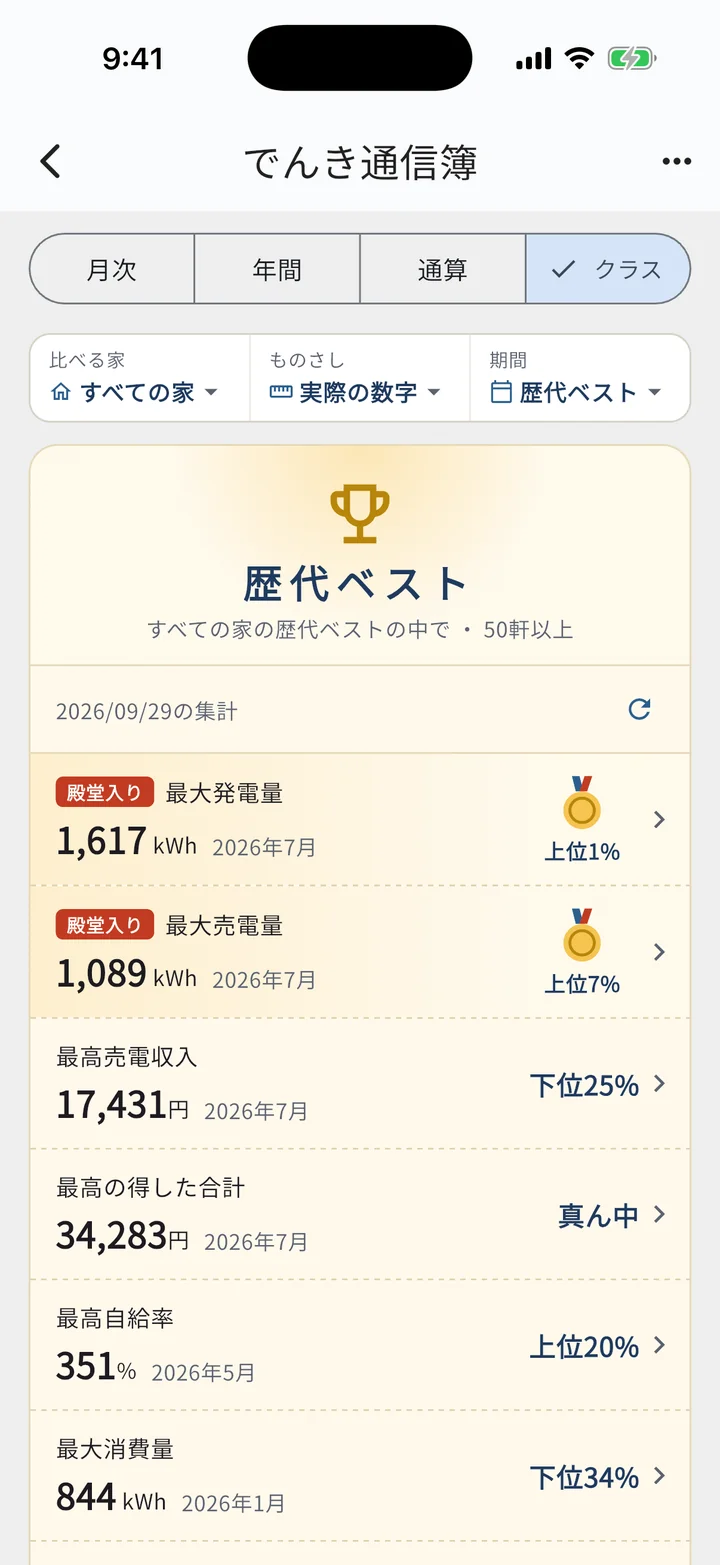
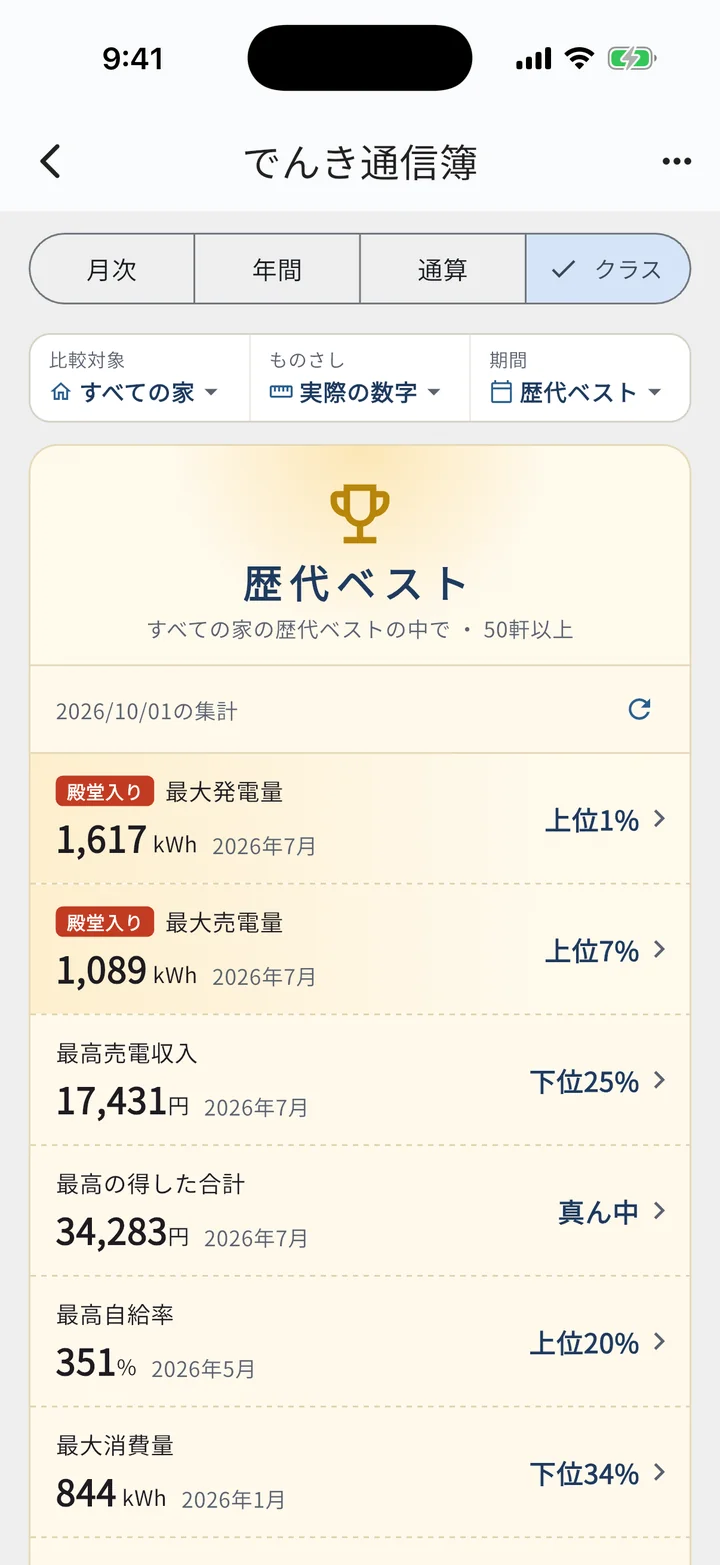
docs: クラスの節を組み直し、画像 4 枚を撮り直す

diff --git a/docs/manual.html b/docs/manual.html
@@ -826,9 +826,9 @@
     <li class="sub2"><a href="#electricity-best">通算（マイベスト）</a></li>
     <li class="sub"><a href="#electricity-share">シェア画像</a></li>
     <li class="sub"><a href="#electricity-class">クラス</a></li>
-    <li class="sub2"><a href="#electricity-class-submit">提出のしかた</a></li>
-    <li class="sub2"><a href="#electricity-class-screen">クラスの通信簿</a></li>
-    <li class="sub2"><a href="#electricity-class-settings">提出の設定</a></li>
+    <li class="sub2"><a href="#electricity-class-submit">はじめ方</a></li>
+    <li class="sub2"><a href="#electricity-class-screen">クラスの通信簿の見方</a></li>
+    <li class="sub2"><a href="#electricity-class-settings">提出の設定とやめ方</a></li>
     <li class="sub2"><a href="#electricity-class-data">送る数字と保存期間</a></li>
     <li class="sub"><a href="#electricity-actions">操作リファレンス</a></li>
   </ul>
@@ -3239,10 +3239,10 @@
   <li><strong>最終データ日付</strong>：「最終データ: YYYY/MM/DD まで」</li>
   <li><strong>月セレクタ</strong></li>
   <li><strong>得した合計カード</strong>（共通仕様）</li>
-  <li><strong>クラスのカード</strong>：クラスへの提出の案内、または提出済みの表示（<a href="#electricity-class-submit">提出のしかた</a>）。料金プランが未設定のときは出ません</li>
+  <li><strong>クラスのカード</strong>：クラスへの提出の案内、または提出済みの表示（<a href="#electricity-class-submit">はじめ方</a>）。料金プランが未設定のときは出ません</li>
   <li><strong>蓄電池カード</strong></li>
   <li><strong>日別 得した合計</strong>：カレンダーヒートマップ（正の収支日のみ色付け）＋日別リスト。日タップで時間別内訳がボトムシートで開く</li>
-  <li><strong>この月のハイライト</strong>：🏆 最も得した日 ／ 💰 最高売電収入日 ／ ⚡ 最大発電日 ／ 📊 最高自給率日 ／ 🔥 黒字日数 ／ 🌞 買電ゼロ日数</li>
+  <li><strong>この月のハイライト</strong>：🏆 最も得した日 ／ 💰 最高売電収入日 ／ ⚡ 最大発電日 ／ 📊 最高自給率日 ／ 🔥 黒字日数 ／ 🌞 買電ゼロ日数（数え方は <a href="#electricity-badges">達成</a> を参照）</li>
 </ol>
 
 <h5>CSVエクスポート・シェア</h5>
@@ -3348,7 +3348,7 @@
 <h5 id="electricity-badges">達成（累計カウント）</h5>
 <p>特定の条件を満たした日・月の累計数を記録します。「N 日中 X 日」のように割合も添えて表示。</p>
 <ul>
-  <li><strong>買電ゼロ日数</strong>：電力会社から買わずに済んだ日の累計</li>
+  <li><strong>買電ゼロ日数</strong>：電力会社からほとんど買わずに済んだ日の累計（1 時間あたり 0.01 kWh 以下のわずかな買電は数えません）</li>
   <li><strong>黒字日数</strong>：1 日の収支がプラスだった日の累計</li>
   <li><strong>黒字月数</strong>：1 ヶ月の収支がプラスだった月の累計</li>
 </ul>
@@ -3394,21 +3394,16 @@
 <p>CSV 取り込みでその月のデータが月末まで揃うと、取り込み完了の画面にも「◯年◯月をシェア」ボタンが表示され、その場でシェア画像を作れます。なお、料金プランが未設定の月や、プランの適用前の期間を含む月は、正しい金額にならないためシェア画像を作れません（設定を促すメッセージが表示されます）。</p>
 
 <h3 id="electricity-class">クラス（提出した家の中での位置）</h3>
-<p>月の数字をクラスに<strong>提出</strong>すると、発電量や電気代などが、提出した家の中で上位何%かが分かる<strong>「クラスの通信簿」</strong>がもらえます。でんき通信簿の 4 つ目のセグメント「クラス」で見られます。</p>
 <ul>
-  <li>画面に出るのは、自分の数字と、提出した家の中での自分の位置、提出した家の数字をまとめた統計（中央値など）です。ほかの家の数字や名前が並ぶことはありません</li>
-  <li>比べる相手は「提出した家」です。提出した家が 10 軒以上になると、上位・下位が表示されます</li>
-  <li>提出するかどうかは自分で選べます。提出しなくても、でんき通信簿のほかの機能はこれまでどおり使えます</li>
+  <li>月の数字をクラスに<strong>提出</strong>すると、発電量や電気代などが、提出した家の中で上位何%かが<strong>「クラスの通信簿」</strong>で分かります。でんき通信簿の 4 つ目のセグメント「クラス」で見られます</li>
+  <li>提出した家が 10 軒以上になると、位置（上位・下位）が表示されます。画面に出るのは、自分の数字と位置、提出した家の数字をまとめた統計（中央値など）です。ほかの家の数字や名前は表示されません</li>
+  <li>提出するかどうかは自分で選べます。送る数字は、提出する前に画面で確かめられます</li>
 </ul>
 
 <div class="shot-grid">
   <figure class="shot-phone">
-    <img src="images/class_report_month.webp" width="720" height="1565" alt="クラスの画面（比べる家・ものさし・期間の切り替え、7月のあなたの一番 = 発電量 上位1%、クラスの通信簿の行）" loading="lazy" decoding="async">
+    <img src="images/class_report_month.webp" width="720" height="1565" alt="クラスの画面（比較対象・ものさし・期間の切り替え、7月のあなたの一番 = 発電量 上位1%、クラスの通信簿の行とメダル・はんこ）" loading="lazy" decoding="async">
     <figcaption>クラスの通信簿：科目ごとに提出した家の中での位置</figcaption>
-  </figure>
-  <figure class="shot-phone">
-    <img src="images/class_detail.webp" width="720" height="1565" alt="科目の詳しい画面（自給率 上位20%・中央値・分布・月別推移）" loading="lazy" decoding="async">
-    <figcaption>行をタップすると、中央値や分布も見られます</figcaption>
   </figure>
 </div>
 
@@ -3416,39 +3411,38 @@
   <p>提出すると、月の数字と家の条件がサーバーに送られます。送る数字・送らないもの・保存期間は <a href="#electricity-class-data">送る数字と保存期間</a> をご覧ください。デモモード中と開発者モード中は提出できません。</p>
 </div>
 
-<h4 id="electricity-class-submit">提出のしかた</h4>
-<p>提出できるのは、その月のデータが月末までそろった月です（途中の月は提出できません）。過去の月も提出できます。入口は次の 3 つで、どれも同じ「提出する内容」の画面が開きます。</p>
-<ul>
-  <li><strong>CSV 取り込みの完了ダイアログ</strong>：その取り込みで新しくそろった月があると、「OK」の左に<strong>「◯年◯月分をクラスに提出する」</strong>が出ます（自動で提出する設定のときは、ボタンの代わりに提出の結果が出ます。送れなかったときだけボタンが出ます）</li>
-  <li><strong>月次レポートのカード</strong>：得した合計カードのすぐ下に出ます。まだ提出したことがないときは「提出すると、クラスの通信簿がもらえます」（× で閉じると、この端末では出なくなります）。提出している人には「◯年◯月分をクラスに提出する」、提出済みの月は「◯年◯月分を提出しました」と「クラスの通信簿を見る ›」（押すとクラスの画面のその月へ）。料金プランが未設定のあいだと、今後の提出をやめたあとは、このカードは出ません</li>
-  <li><strong>クラスのセグメント</strong>：まだ提出していないときは「発電量や電気代などが、提出した家の中で上位何%かが分かります」の説明と「提出する」ボタン（いちばん新しい月の提出の画面が開きます）</li>
-</ul>
+<h4 id="electricity-class-submit">はじめ方</h4>
+<ol class="steps">
+  <li><strong>その月のデータを月末までそろえる</strong><p>CSV を取り込んで、その月のデータが月末までそろうと提出できます（途中の月は提出できません）。過去の月も提出できます。</p></li>
+  <li><strong>「◯年◯月分をクラスに提出する」を押す</strong><p>取り込み完了ダイアログ・月次レポートのカード（得した合計の下）・クラスの画面の「提出する」のどれからでも、同じ「提出する内容」の画面が開きます。</p></li>
+  <li><strong>内容を確かめて「提出する」を押す</strong><p>提出するのは、この画面に表示している数字だけです。</p></li>
+  <li><strong>翌日からクラスの通信簿に載る</strong><p>集計は 1 日 1 回、朝 4 時ごろです。</p></li>
+</ol>
 
 <div class="shot-grid">
   <figure class="shot-phone">
     <img src="images/electricity_csv_done.webp" width="720" height="1565" alt="CSV取り込み完了ダイアログ（「2026年7月分をクラスに提出する」のボタン）" loading="lazy" decoding="async">
-    <figcaption>入口：取り込み完了ダイアログの「◯年◯月分をクラスに提出する」</figcaption>
+    <figcaption>取り込み完了ダイアログの「◯年◯月分をクラスに提出する」</figcaption>
   </figure>
   <figure class="shot-phone">
     <img src="images/electricity_monthly.webp" width="720" height="1565" alt="月次レポートの得した合計の下の「提出すると、クラスの通信簿がもらえます」のカード" loading="lazy" decoding="async">
-    <figcaption>入口：月次レポートのカード</figcaption>
+    <figcaption>月次レポートのカード</figcaption>
   </figure>
 </div>
 
 <h5>「提出する内容」の画面（上から順）</h5>
 <ol>
-  <li><strong>月の数字</strong>：発電量・売電量・売電収入・得した合計・自給率・消費量・買電量・電気代の 8 つ。料金プランが設定されていない月は、金額が「—（料金プラン未設定）」になります。自給率が 1000% を超える月（入居前など、使う電力がとても少ない月）は、自給率だけが「—」になります（ほかの数字は提出できます）</li>
+  <li><strong>月の数字</strong>：発電量・売電量・売電収入・得した合計・自給率・消費量・買電量・電気代の 8 つ。料金プランが設定されていない月は、金額が「—（料金プラン未設定）」になります。自給率が 1000% を超える月（入居前など、使う電力がとても少ない月）は、自給率だけが「—」になります</li>
   <li><strong>家の情報</strong>（入力は任意です）：売電単価・断熱地域・延床・太陽光の容量。行の右のスイッチで、それぞれ提出するかどうかを選べます（はじめはすべて提出する）
     <ul>
-      <li><a href="#mypage-edit">マイページ</a>に入っていない項目は、その場で入力できます（断熱地域は 1〜8 から選ぶ、延床は坪、太陽光の容量は kW）。分からなければ空のままで提出できます</li>
+      <li>マイページに入っていない項目は、その場で入力できます（断熱地域は 1〜8 から選ぶ、延床は坪、太陽光の容量は kW）。分からなければ空のままで提出できます。入力した値はマイページに保存されます（<a href="#electricity-class-house">家の情報とマイページ</a>）</li>
       <li>延床と太陽光の容量は、取り込んだ見積りから読み取れたときに「見積りの ◯坪 を使う」「見積りの ◯kW を使う」ボタンが出ます。押したときだけ入ります</li>
-      <li>ここで入力した値はマイページに保存されます。マイページで修正・削除すると、次の提出から変更後の値になります</li>
-      <li>売電単価は、マイページではなく<a href="#electricity-plan">売電プラン</a>からその月の単価を取ります（1 円単位）。売電プランがないときは「売電プランを設定する」から設定できます（設定しなくても提出できます）。月の途中で売電プランが変わった月は「—（月の途中で売電プランが変わりました）」になります</li>
+      <li>売電単価は、<a href="#electricity-plan">売電プラン</a>からその月の単価を取ります（1 円単位）。売電プランがないときは「売電プランを設定する」から設定できます。設定して戻ると、金額と歴代ベストが設定後の内容で表示されます。月の途中で売電プランが変わった月は「—（月の途中で売電プランが変わりました）」になります</li>
     </ul>
   </li>
   <li><strong>これまでの月もまとめて提出する</strong>（はじめは ON）：データがそろっているほかの未提出の月も、まとめて提出します。「ほかの ◯ヶ月の数字を見る」で中身を確かめられます</li>
   <li><strong>歴代ベストもいっしょに提出します</strong>：端末にある全期間の記録から、8 つの科目それぞれのいちばん大きかった月の値と年月（その月の売電単価）を提出します。通算タブのマンスリーベストとは数え方が違うため、数字が一致しないことがあります</li>
-  <li><strong>「提出する」</strong>：押すと送信します。提出するのは、この画面に表示している数字だけです</li>
+  <li><strong>「提出する」</strong>：押すと送信します</li>
 </ol>
 
 <div class="shot-grid">
@@ -3464,8 +3458,7 @@
 
 <h5>提出したあと</h5>
 <ul>
-  <li>「提出しました」と「今回の数字は、明日からクラスの通信簿に載ります」が出ます。集計は 1 日 1 回、朝 4 時ごろです</li>
-  <li><strong>「次からは、データを取り込んだときに自動で提出する」</strong>（はじめは OFF）：ON にすると、次からは CSV を取り込んで新しくそろった月を自動で提出します（歴代ベストもいっしょに提出します）。結果は取り込み完了ダイアログの中に「◯年◯月分を提出しました」のように出ます（通信できないときは「まだ提出できていません」、送れなかったときは「提出できませんでした」と「◯年◯月分をクラスに提出する」）。あとからクラスの画面や<a href="#electricity-class-settings">提出の設定</a>で切り替えられます</li>
+  <li>「提出しました」の画面が出ます。この画面の<strong>「次からは、データを取り込んだときに自動で提出する」</strong>（はじめは OFF）を ON にすると、次からは自動で提出します（<a href="#electricity-class-settings">自動の提出</a>）</li>
   <li>通信できないときは「まだ提出できていません」と出ます。通信できるようになってから、でんき通信簿のクラスを開くと提出されます</li>
 </ul>
 
@@ -3480,81 +3473,80 @@
   </figure>
 </div>
 
-<h4 id="electricity-class-screen">クラスの画面（クラスの通信簿）</h4>
-<p>セグメントの「クラス」を選ぶと開きます。上から順に、切り替え・ハイライト・クラスの通信簿が並びます。</p>
+<h4 id="electricity-class-screen">クラスの通信簿の見方</h4>
+<p>セグメントの「クラス」を選ぶと開きます。どの科目も<strong>数字の大きい順</strong>に数えます（電気代・消費量・買電量も、大きいほど「上位」です）。</p>
 
 <h5>3 つの切り替え</h5>
 <table>
   <thead><tr><th>切り替え</th><th>選べるもの</th></tr></thead>
   <tbody>
-    <tr><td>比べる家</td><td>すべての家 ／ 同じ断熱地域 ／ 同じ売電単価</td></tr>
+    <tr><td>比較対象</td><td>すべての家 ／ 同じ断熱地域 ／ 同じ売電単価</td></tr>
     <tr><td>ものさし</td><td>実際の数字 ／ 坪・kW あたり（発電量・売電量・売電収入・得した合計は太陽光の容量 1kW あたり、消費量・買電量・電気代は延床 1 坪あたり。自給率はそのまま）</td></tr>
     <tr><td>期間</td><td>月 ／ 年 ／ 歴代ベスト</td></tr>
   </tbody>
 </table>
-<p>選んだ組み合わせは次に開いたときも同じです。「同じ断熱地域」「同じ売電単価」で比べるには、その条件を提出している必要があります。坪・kW あたりには延床と太陽光の容量が必要です。</p>
+<p>選んだ組み合わせは次に開いたときも同じです。「同じ断熱地域」「同じ売電単価」には、その条件の提出が必要です。坪・kW あたりには延床と太陽光の容量が必要です。</p>
 
-<h5>ハイライトとクラスの通信簿</h5>
+<h5>通信簿の行と印</h5>
 <ul>
-  <li><strong>ハイライト</strong>：「◯月のあなたの一番」として、いちばん上位だった科目を大きく表示します（上位の側の科目があるときだけ）</li>
-  <li><strong>クラスの通信簿</strong>：8 つの科目の自分の数字と、位置（<strong>「上位◯%」「真ん中」「下位◯%」</strong>）が並びます。どの科目も<strong>数字の大きい順</strong>に数えます（電気代・消費量・買電量も、大きいほど「上位」です）</li>
-  <li><strong>メダルとはんこ</strong>：上位 3% 以内は金のメダル、上位 4〜10% は朱のはんこが付きます</li>
-  <li><strong>← →</strong>：月（期間が年なら年）を切り替えます。提出して集計に入った月（年）だけに移動します</li>
+  <li><strong>位置</strong>：8 つの科目の自分の数字と、<strong>「上位◯%」「真ん中」「下位◯%」</strong>が並びます</li>
+  <li><strong>ハイライト</strong>：「◯月のあなたの一番」として、いちばん上位だった科目を大きく表示します（「上位◯%」の科目があるときだけ）</li>
+  <li><strong>メダルとはんこ</strong>（期間が月・年のとき）：上位 3% 以内は金のメダル、上位 4〜10% は朱のはんこが付きます</li>
+  <li><strong>← →</strong>：月（期間が年なら年）を切り替えます。提出して集計が済んだ月（年）だけに移動します</li>
   <li><strong>「2026/09/28の集計」のような日付と ↻</strong>：いつの集計かを表示します。↻ で最新の集計を読み込みます</li>
-  <li>位置が出ないときは、行に理由が出ます：「まだ比べられる家が少ないです」／「延床を入力すると表示されます」「太陽光の容量を提出すると表示されます」など（行を押すと、その場で入力して提出済みの月に付けて提出できます。歴代ベストも、端末にあるすべての月から作り直して提出します。表示されるのは明日からです）／「料金プラン未設定」</li>
-  <li>位置が 1 つも出ないときは、ハイライトの代わりに<strong>「提出した家が集まってきています」</strong>のカードが出ます（いまの軒数の目安と、10 軒以上で表示されること）。「すべての家で見る」で比べる家を戻せます</li>
-  <li>同じ断熱地域・同じ売電単価で比べられないときは、理由と、入力・提出・売電プランの設定への近道がカードで出ます。月の途中で売電プランが変わった月は、同じ売電単価の家とは比べられません（年で見ているときは「月ごとに見る」）</li>
+  <li><strong>行を押す</strong>：その科目の<a href="#electricity-class-detail">詳しい画面</a>が開きます</li>
+</ul>
+
+<h5>位置が出ないとき</h5>
+<ul>
+  <li><strong>提出した家が 10 軒に満たない</strong>：行に「まだ比較対象の家が少ないです」と出ます。どの科目も位置が出ないときは、ハイライトの代わりに「提出した家が集まってきています」のカード（いまの軒数の目安）が出ます。「すべての家で見る」で比較対象を戻せます</li>
+  <li><strong>延床・太陽光の容量がない</strong>：「延床を入力すると表示されます」「太陽光の容量を提出すると表示されます」などと出ます。行を押すと、その場で入力して、提出済みの月に付けて提出できます（歴代ベストも作り直して提出します。表示されるのは明日からです）</li>
+  <li><strong>料金プランがない月</strong>：金額の科目に「料金プラン未設定」と出ます</li>
+  <li><strong>同じ断熱地域・同じ売電単価で比較できない</strong>：理由と、入力・提出・売電プランの設定への近道がカードで出ます。月の途中で売電プランが変わった月は、同じ売電単価の家とは比較できません（期間が年のときは「月ごとに見る」で月に切り替えられます）</li>
 </ul>
 
 <div class="shot-grid">
   <figure class="shot-phone">
-    <img src="images/class_report_month.webp" width="720" height="1565" alt="クラスの画面（比べる家・ものさし・期間の切り替え、7月のあなたの一番 = 発電量 上位1%、クラスの通信簿のメダルとはんこ）" loading="lazy" decoding="async">
-    <figcaption>切り替え・ハイライト・クラスの通信簿</figcaption>
-  </figure>
-  <figure class="shot-phone">
-    <img src="images/class_gathering.webp" width="720" height="1565" alt="同じ断熱地域で比べたときの「5 地域の家が集まってきています」のカード（軒数の目安・すべての家で見る）" loading="lazy" decoding="async">
+    <img src="images/class_gathering.webp" width="720" height="1565" alt="同じ断熱地域を選んだときの「5 地域の家が集まってきています」のカード（軒数の目安・すべての家で見る）" loading="lazy" decoding="async">
     <figcaption>提出した家が集まってきています</figcaption>
   </figure>
 </div>
 
 <h5>期間：年</h5>
-<p>1 月からの合計で比べます（年の途中は「1〜◯月の合計」）。比べる相手は、その年の 1 月から同じ月までを<strong>すべて提出した家</strong>です。途中の月が抜けているときは「◯月分がまだ提出されていません」と出て、合計と位置は表示されません（「提出する」から抜けた月を提出できます）。</p>
+<p>1 月からの合計で比較します（年の途中は「1〜◯月の合計」）。比較対象は、その年の 1 月から同じ月までを<strong>すべて提出した家</strong>です。抜けた月があると合計と位置は表示されず、「提出する」から抜けた月を提出できます。</p>
 
 <h5>期間：歴代ベスト</h5>
-<p>自分の歴代ベスト（科目ごとの過去最高の 1 か月）が、提出した家の歴代ベストの中でどのあたりかを表示します。上位 10% 以内の科目には<strong>「殿堂入り」</strong>の札が付きます。記録を更新すると、翌日から歴代ベストに反映されます。同じ売電単価で比べるときは、記録の月の売電単価ごとに比べます。</p>
-
-<h5>科目の詳しい画面（行をタップ）</h5>
-<p>通信簿の行（› が付いた行）をタップすると、その科目の詳しい画面が下から開きます。</p>
-<ul>
-  <li>比べた条件（期間・比べる家と軒数の目安・ものさし）と、自分の数字・位置</li>
-  <li>「中央値」「下位25%の境目」「上位25%の境目」（10 軒以上のとき）</li>
-  <li>「分布」の図（20 軒以上のとき。「あなた」の位置と「真ん中の半分」。棒の高さは家の多さです）</li>
-  <li>自分の数字と中央値の推移のグラフ（歴代ベスト以外）</li>
-  <li>注記：金額の科目は「金額は、料金プランの違いも含めて比べています」、自給率は「自給率は発電量 ÷ 消費量です。100%を超えることがあります」。どの科目も<strong>提出したときの数字</strong>で比べています（あとからマイページや料金プランを直しても、提出済みの数字は変わりません）</li>
-</ul>
+<p>自分の歴代ベスト（科目ごとの過去最高の 1 か月）が、提出した家の歴代ベストの中でどのあたりかを表示します。上位 10% 以内の科目には<strong>「殿堂入り」</strong>の札が付きます（メダルとはんこは付きません）。記録を更新すると、翌日から歴代ベストに反映されます。同じ売電単価のときは、記録の月の売電単価ごとに比較します。</p>
 
 <div class="shot-grid">
   <figure class="shot-phone">
     <img src="images/class_best.webp" width="720" height="1565" alt="期間：歴代ベスト（殿堂入りの札が付いた科目と、各科目の位置）" loading="lazy" decoding="async">
     <figcaption>歴代ベスト（殿堂入り）</figcaption>
   </figure>
+</div>
+
+<h5 id="electricity-class-detail">科目の詳しい画面（行を押す）</h5>
+<ul>
+  <li>比較した条件（期間・比較対象と軒数の目安・ものさし）と、自分の数字・位置</li>
+  <li>「中央値」「下位25%の境目」「上位25%の境目」（10 軒以上のとき）</li>
+  <li>「分布」の図（20 軒以上のとき）：棒と「あなた」の印（▼）。棒の高さは家の多さです。10〜19 軒のときは、図の場所に「20軒以上になると、分布の図が表示されます」と出ます</li>
+  <li>自分の数字と中央値の推移のグラフ（歴代ベスト以外）</li>
+  <li>注記：金額の科目は「金額は、料金プランの違いも含めて比較しています」、自給率は「自給率は発電量 ÷ 消費量です。100%を超えることがあります」。どの科目も「提出したときの数字で比較しています」（あとからマイページや料金プランを直しても、提出済みの数字は変わりません）</li>
+</ul>
+
+<div class="shot-grid">
   <figure class="shot-phone">
     <img src="images/class_detail.webp" width="720" height="1565" alt="自給率の詳しい画面（中央値・下位25%の境目・上位25%の境目、分布の図、月別推移）" loading="lazy" decoding="async">
     <figcaption>科目の詳しい画面：中央値・分布・推移</figcaption>
   </figure>
 </div>
 
-<h4 id="electricity-class-settings">提出の設定・今後の提出をやめる</h4>
-<p>クラスの画面のいちばん下に「提出の設定」があります。</p>
+<h4 id="electricity-class-settings">提出の設定とやめ方</h4>
+<p>クラスの画面のいちばん下に「提出の設定」があります。同じ内容は、クラスを表示しているときの<strong>右上メニュー →「提出の設定」</strong>と、<strong>設定 &gt; データ管理 &gt;「でんき通信簿のクラス」</strong>（提出したことがあるときに表示）からも開けます。メニューと設定から開いたときは、提出した月（年ごと）も表示されます。</p>
 <ul>
-  <li><strong>データを取り込んだときに自動で提出する</strong>：自動の提出の ON / OFF</li>
+  <li><strong>データを取り込んだときに自動で提出する</strong>：ON にすると、CSV を取り込んで新しくそろった月を自動で提出します（歴代ベストもいっしょに提出します）。結果は取り込み完了ダイアログに「◯年◯月分を提出しました」のように出ます。提出できなかったときは、代わりに「◯年◯月分をクラスに提出する」が出ます</li>
   <li><strong>今後の提出をやめる</strong>：確認のダイアログで「やめる」を押すと、クラスの通信簿は見られなくなり、自動の提出も止まります。提出済みの数字は、最後の提出から約 1 年で自動的に消えます。もう一度提出すると再開できます</li>
   <li><strong>クラスのサポート用 ID</strong>：提出済みの数字の削除を依頼するときに使う ID です（右のアイコンでコピー）。今後の提出をやめたあとも表示されます</li>
-</ul>
-<p>同じ内容は、クラスを表示しているときの<strong>右上メニュー →「提出の設定」</strong>と、<strong>設定 &gt; データ管理 &gt;「でんき通信簿のクラス」</strong>（提出したことがあるときに表示）からも開けます。こちらでは、次のこともできます。</p>
-<ul>
-  <li><strong>提出した月</strong>：年ごとに、提出した月が並びます</li>
-  <li><strong>家の情報</strong>：延床・太陽光の容量・断熱地域・売電単価のそれぞれを、次から提出するかどうかをスイッチで切り替えます。切り替えは次の提出から反映され、提出済みの月は変わりません。提出済みの月の値を直すときは、その行を押して入力し直してください（提出済みの月に付けて提出し直し、歴代ベストも端末にあるすべての月から作り直して提出します）</li>
 </ul>
 
 <div class="shot-grid">
@@ -3567,11 +3559,16 @@
     <figcaption>設定 &gt; でんき通信簿のクラス</figcaption>
   </figure>
 </div>
-<div class="callout info">
-  <p>延床・太陽光の容量・断熱地域は、<a href="#mypage-edit">マイページ</a>の値をそのまま使います。マイページで直しても、その場では提出されず、次の提出から変更後の値になります。クラスに提出している間は、マイページの編集画面のこの 3 つの欄のうち、提出している欄の下に「でんき通信簿のクラスにも提出しています。変更は次の提出から反映されます」と表示されます。</p>
-</div>
 
-<h4 id="electricity-class-data">送る数字と保存期間</h4>
+<h5 id="electricity-class-house">家の情報とマイページ</h5>
+<ul>
+  <li>延床・太陽光の容量・断熱地域は、<a href="#mypage-edit">マイページ</a>の値をそのまま使います。提出の画面で入力した値もマイページに保存されます</li>
+  <li>マイページで直しても、その場では提出されず、次の提出から変更後の値になります。提出している間は、マイページの編集画面の提出している欄の下に「でんき通信簿のクラスにも提出しています。変更は次の提出から反映されます」と表示されます</li>
+  <li>メニューと設定から開いたときは、延床・太陽光の容量・断熱地域・売電単価のそれぞれを、次から提出するかどうかをスイッチで切り替えられます。切り替えは次の提出から反映され、提出済みの月は変わりません</li>
+  <li>提出済みの月の値を直すときは、その行を押して入力し直してください（提出済みの月に付けて提出し直し、歴代ベストも端末にあるすべての月から作り直して提出します）</li>
+</ul>
+
+<h5 id="electricity-class-data">送る数字と保存期間</h5>
 <table>
   <thead><tr><th></th><th>内容</th></tr></thead>
   <tbody>
@@ -3585,6 +3582,9 @@
 </ul>
 <p>くわしくは <a href="https://smartolio.jp/privacy/ichijo-unofficial-app/" target="_blank" rel="noopener">プライバシーポリシー</a> をご覧ください。</p>
 
+<h4>困ったとき</h4>
+<p>載らない・位置が出ない・提出のボタンが出ないときなどは <a href="#troubleshooting-class">でんき通信簿のクラスで困ったとき</a> をご覧ください。</p>
+
 <h3 id="electricity-actions">操作リファレンス</h3>
 <div class="action-box">
   <div class="action-row"><strong>セグメント</strong><span>月次／年間／通算／クラス 切替</span></div>
@@ -3597,8 +3597,8 @@
   <div class="action-row"><strong>「目標金額を変更」ボタン</strong><span>投資回収ゴールの追加・編集・削除（最大5件）</span></div>
   <div class="action-row"><strong>期間セレクタ（5年/10年/15年/20年/自動）</strong><span>回収予測グラフの表示期間を切替</span></div>
   <div class="action-row"><strong>実績データ削除（右上メニュー）</strong><span>月次：当月／年次：当年／通算：年＋月ツリーピッカーで選択削除</span></div>
-  <div class="action-row"><strong>「◯年◯月分をクラスに提出する」</strong><span>クラスへの提出の画面を開く（取り込み完了ダイアログ・月次のカード）</span></div>
-  <div class="action-row"><strong>クラス：比べる家／ものさし／期間</strong><span>クラスの通信簿の比べ方を切替</span></div>
+  <div class="action-row"><strong>「◯年◯月分をクラスに提出する」</strong><span>「提出する内容」の画面を開く（取り込み完了ダイアログ・月次のカード。クラスの画面では「提出する」）</span></div>
+  <div class="action-row"><strong>クラス：比較対象／ものさし／期間</strong><span>クラスの通信簿の表示を切替</span></div>
   <div class="action-row"><strong>クラス：通信簿の行をタップ</strong><span>その科目の詳しい画面（中央値・分布・推移）を開く</span></div>
   <div class="action-row"><strong>クラス：↻</strong><span>最新の集計を読み込む</span></div>
   <div class="action-row"><strong>クラス：今後の提出をやめる</strong><span>確認のあと、今後の提出と自動の提出を止める</span></div>
@@ -4723,9 +4723,10 @@
 <h3 id="troubleshooting-class">でんき通信簿のクラスで困ったとき</h3>
 <ul>
   <li><strong>提出したのにクラスの通信簿に載らない</strong>：集計は 1 日 1 回、朝 4 時ごろです。提出した数字は、明日からクラスの通信簿に載ります</li>
-  <li><strong>「まだ比べられる家が少ないです」「提出した家が集まってきています」と出る</strong>：比べる家が 10 軒以上になると、上位・下位が表示されます。「同じ断熱地域」「同じ売電単価」で足りないときは、「すべての家」に切り替えてみてください</li>
-  <li><strong>坪・kW あたりの数字が「—」になる</strong>：延床・太陽光の容量が入っていないか、提出しない設定になっています。行を押すと、その場で入力して提出できます → <a href="#electricity-class-screen">クラスの通信簿</a></li>
-  <li><strong>同じ売電単価の家と比べられない</strong>：<a href="#electricity-plan">売電プラン</a>を設定してから提出してください。月の途中で売電プランが変わった月は、同じ売電単価の家とは比べられません</li>
+  <li><strong>「まだ比較対象の家が少ないです」「提出した家が集まってきています」と出る</strong>：提出した家が 10 軒以上になると、上位・下位が表示されます。「同じ断熱地域」「同じ売電単価」で足りないときは、比較対象を「すべての家」に切り替えてください</li>
+  <li><strong>詳しい画面に分布の図が出ない</strong>：分布の図は 20 軒以上で表示されます。10〜19 軒のときは「20軒以上になると、分布の図が表示されます」と出ます</li>
+  <li><strong>坪・kW あたりの数字が「—」になる</strong>：延床・太陽光の容量が入っていないか、提出しない設定になっています。行を押すと、その場で入力して提出できます → <a href="#electricity-class-screen">クラスの通信簿の見方</a></li>
+  <li><strong>同じ売電単価の家と比較できない</strong>：<a href="#electricity-plan">売電プラン</a>を設定してから提出してください。月の途中で売電プランが変わった月は、同じ売電単価の家とは比較できません</li>
   <li><strong>「◯年◯月分をクラスに提出する」が出ない</strong>：その月のデータが月末までそろっていない、デモモード・開発者モードがオンになっている、今後の提出をやめている、のどれかが考えられます。その月を提出済みのときは「◯年◯月分を提出しました」が出ます。自動で提出する設定のときは、取り込み完了ダイアログにはボタンではなく提出の結果が出ます。月次のカードは料金プランが未設定のあいだと、× で閉じたあとは出ません（取り込み完了ダイアログとクラスの画面からは提出できます）</li>
   <li><strong>「まだ提出できていません」と出る</strong>：通信できない状態でした。通信できるようになってから、でんき通信簿のクラスを開くと提出されます</li>
   <li><strong>提出した数字を消したい</strong>：何もしなくても、最後の提出から約 1 年で自動的に消えます。すぐに消したいときは、クラスの画面の下（または 設定 &gt; データ管理 &gt; でんき通信簿のクラス）に表示される「クラスのサポート用 ID」を添えて <a href="#contact">お問い合わせ</a> ください → <a href="#electricity-class-data">送る数字と保存期間</a></li>

diff --git a/docs/index.html b/docs/index.html
@@ -1084,7 +1084,7 @@
       <div class="release-card" id="v1-15-0">
         <h3>v1.15.0 — でんき通信簿「クラス」/ お手入れ当番表のウィジェット <span class="tag-new">NEW</span></h3>
         <ul>
-          <li><strong>でんき通信簿: 「クラス」</strong> — 月の数字をクラスに提出すると、発電量や電気代などが、提出した家の中で上位何%かが「クラスの通信簿」で分かります。すべての家・同じ断熱地域・同じ売電単価の家と比べたり、坪・kW あたりで比べたり、月・年・歴代ベストで見たりできます。提出するかどうかは自分で選べて、提出する前に送る数字を画面で確かめられます → <a href="manual.html#electricity-class">くわしくはこちら</a></li>
+          <li><strong>でんき通信簿: 「クラス」</strong> — 月の数字をクラスに提出すると、発電量や電気代などが、提出した家の中で上位何%かが「クラスの通信簿」で分かります。比較対象は、すべての家・同じ断熱地域・同じ売電単価から選べます。坪・kW あたりの数字や、月・年・歴代ベストでも見られます。提出するかどうかは自分で選べて、提出する前に送る数字を画面で確かめられます → <a href="manual.html#electricity-class">くわしくはこちら</a></li>
           <li><strong>お手入れ当番表: ホームウィジェット</strong> — 今すぐ・もうすぐのお手入れと、残りわずかの消耗品を、端末のホーム画面に表示できます。スマホのほか、iPad や Android タブレットの大きなサイズにも対応しています。タップするとお手入れ当番表が開きます → <a href="manual.html#widget-maintenance">くわしくはこちら</a></li>
           <li><strong>お手入れ当番表: 「在庫わずか」の数え方</strong> — ダッシュボードの「在庫わずか」を、残りわずかになった消耗品の数で数えるようにしました（同じ消耗品を複数のお手入れで使っていても 1 つと数えます）</li>
           <li><strong>でんき通信簿: 「買電ゼロ日数」の数え方</strong> — 1 時間あたり 0.01 kWh 以下のわずかな買電は数えないようにしました</li>
